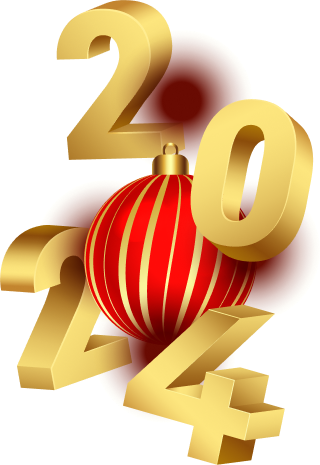
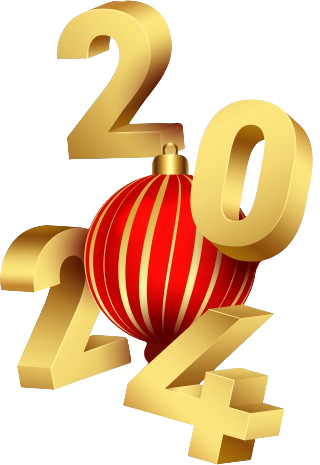
Added night party section with complete styling.

diff --git a/style.css b/style.css
@@ -13,6 +13,16 @@
   --text-color: #070211;
   --accent-color: #ff0000;
   --light-color: #ffffff;
+  --bg-gradient-color-1: linear-gradient(
+    to bottom,
+    #070211 0%,
+    rgba(7, 2, 17, 0) 100%
+  );
+  --bg-gradient-color-2: linear-gradient(
+    to right,
+    #070211 0%,
+    rgba(7, 2, 17, 0) 100%
+  );
 }
 
 body,
@@ -54,6 +64,15 @@ h2 {
   align-items: center;
 }
 
+.box-bg {
+  height: 500px;
+  background-repeat: no-repeat;
+  border-radius: 24px;
+  background-size: cover;
+  padding: 50px;
+  background-position: center center;
+}
+
 .section-subtitle {
   color: var(--accent-color);
   text-transform: uppercase;
@@ -66,6 +85,11 @@ h2 {
   font-weight: 700;
   color: var(--primary-color);
 }
+.text {
+  font-size: 16px;
+  line-height: 24px;
+  font-weight: 400;
+}
 img {
   max-width: 100%;
 }
@@ -76,16 +100,10 @@ img {
 .banner-section {
   padding: 70px 0;
 }
+
 .banner-section .container {
-  height: 500px;
   background-image:
-    linear-gradient(to bottom, #070211 0%, rgba(7, 2, 17, 0) 100%),
-    url("./assets/images/banner-image.png");
-  background-repeat: no-repeat;
-  border-radius: 24px;
-  background-size: cover;
-  padding: 50px;
-  background-position: center center;
+    var(--bg-gradient-color-1), url("./assets/images/banner-image.png");
 }
 .banner-section h1,
 .banner-section h2 {
@@ -125,3 +143,41 @@ img {
 }
 
 /* Styling for Offer Section End */
+
+/* Styling for Night Party Section Start */
+.nightparty-section {
+  padding: 50px 0;
+}
+.nightparty-section .container {
+  background-image:
+    var(--bg-gradient-color-2), url("./assets/images/celebration.png");
+}
+.nightparty-section .content {
+  width: 70%;
+}
+.nightparty-section .content h3 {
+  font-size: 84px;
+  color: var(--light-color);
+}
+.nightparty-section .content .text {
+  color: var(--light-color);
+  width: 75%;
+  margin: 15px 0 30px 0;
+}
+.nightparty-section .content a {
+  color: var(--light-color);
+  font-size: 16px;
+  line-height: 24px;
+  font-weight: 600;
+}
+.nightparty-section .content a:hover {
+  color: var(--accent-color);
+}
+.nightparty-section .image {
+  width: 30%;
+}
+.nightparty-section .image img {
+  width: 300px;
+}
+
+/* Styling for Night Party Section End */

diff --git a/index.html b/index.html
@@ -16,7 +16,7 @@
     <main id="main-content">
       <!-- Banner Section Start -->
       <section class="banner-section">
-        <div class="container center-content">
+        <div class="container center-content box-bg">
           <h1>Happy New Year</h1>
           <h2>New Year Party Celebration</h2>
         </div>
@@ -38,6 +38,25 @@
         </div>
       </section>
       <!-- Offer Section End -->
+
+      <!-- Night Party Section Start -->
+      <section class="nightparty-section">
+        <div class="container box-bg justify-content">
+          <div class="content">
+            <h3 class="font-mw">Welcome to midnight party</h3>
+            <p class="text">
+              Dolor sit amet consectetur. Consequat eget consectetur maecenas
+              sed molestie malesuada. Ipsum sed sodales risus ut pellentesque
+              vel euismod.
+            </p>
+            <a href="#">Join Now</a>
+          </div>
+          <div class="image">
+            <img src="./assets/images/year-2024.png" alt="Year 2024" />
+          </div>
+        </div>
+      </section>
+      <!-- Night Party Section End -->
     </main>
   </body>
 </html>